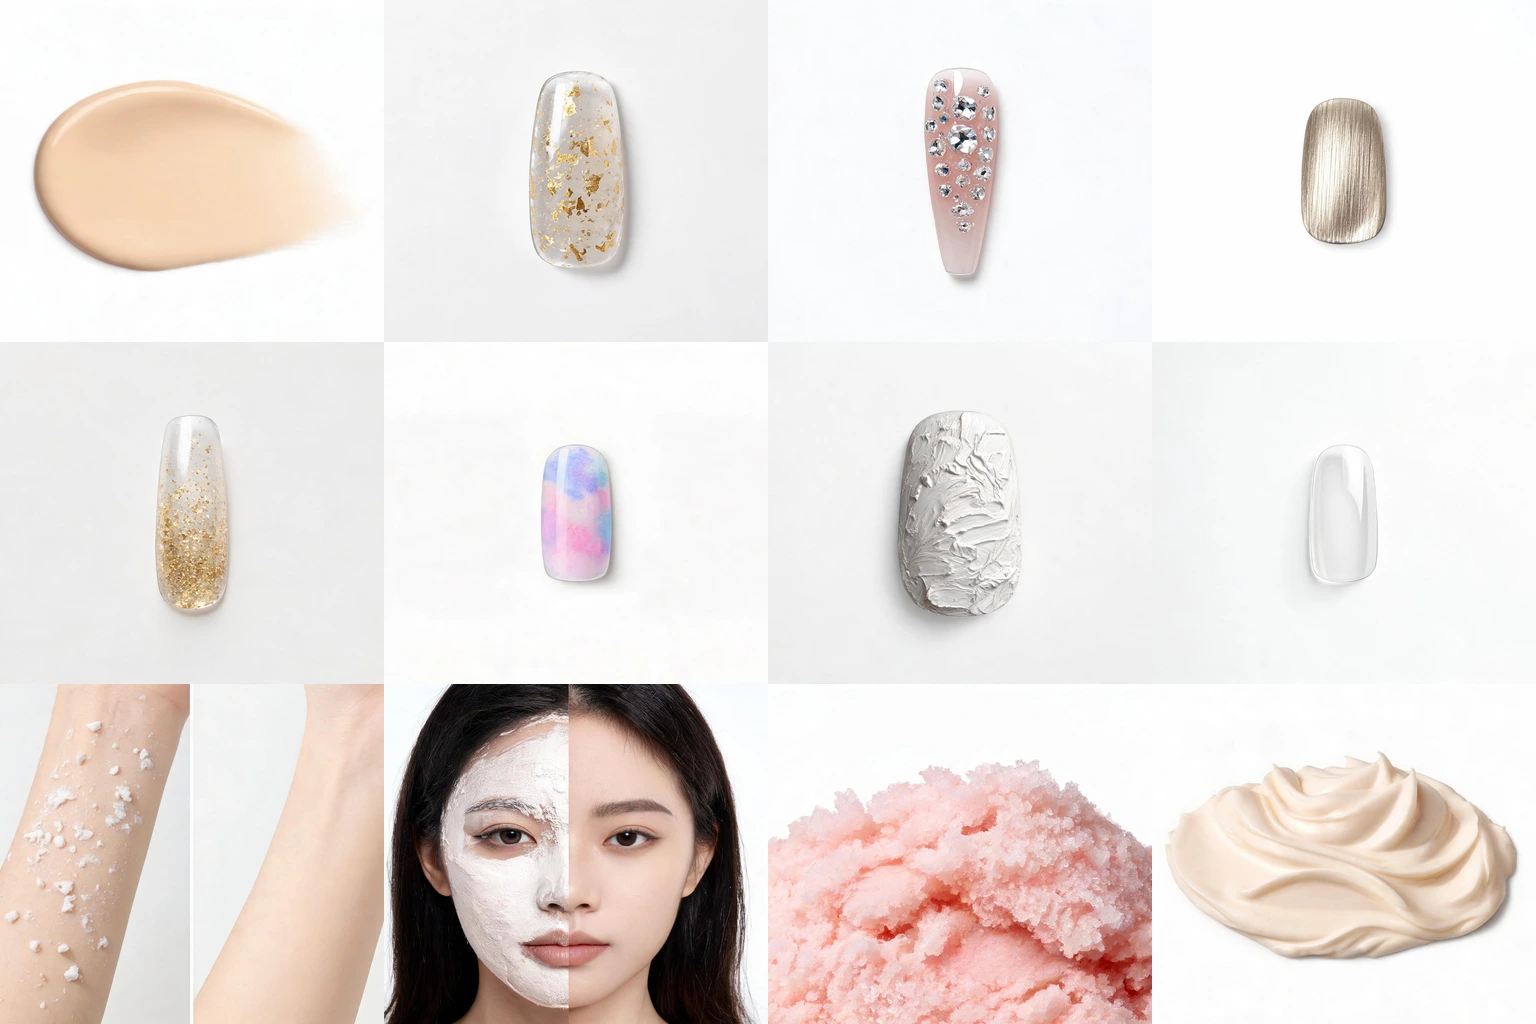
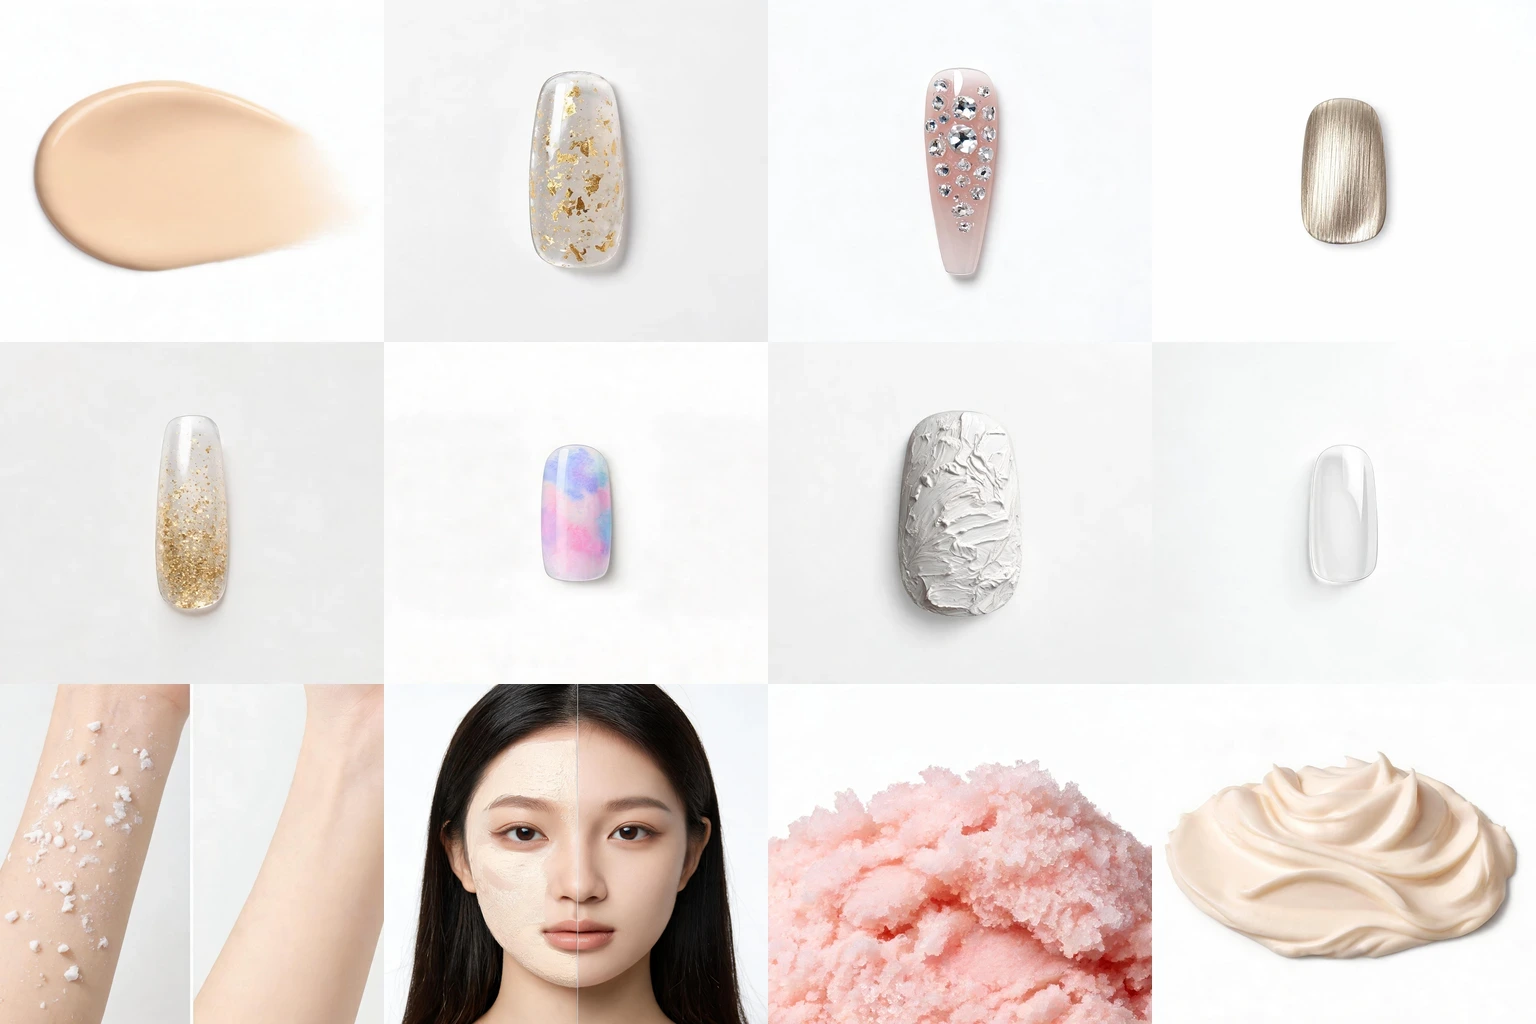
质地网格5格重制：提亮/不卡纹/凉感/不假面/服帖
- 提亮：假星光改为暗沉vs通透光泽同肤对比
- 不卡纹：眼下遮瑕卡纹vs服帖无纹分屏
- 凉感：皮肤假雪花改为冰蓝清凉凝露膏体
- 不假面：白面膜改为肤色厚重卡粉底妆vs自然薄透
- 服帖：手肘皮肤改为面中鼻翼旁底妆贴肤微距
- ASSET_VERSION 20261020d -> 20261020e，examples-data v1.34 -> v1.35
- 审计 31 passed / 0 failures

Changed region(s): [[0.25, 0.6562, 0.5, 1.0]]

diff --git a/beauty.html b/beauty.html
@@ -128,7 +128,7 @@
   <script src="./brand-products-data.js"></script>
   <script src="./brand-products-expansion.js?v=2.6"></script>
   <script src="./brand-product-images.js?v=2.6"></script>
-  <script src="./examples-data.js?v=1.34"></script>
+  <script src="./examples-data.js?v=1.35"></script>
   <script src="./sources-data.js?v=1.12"></script>
   <script src="./beauty.js?v=3.12"></script>
 </body>

diff --git a/recognize.html b/recognize.html
@@ -138,7 +138,7 @@
   </footer>
 
   <script src="./beauty-data.js?v=3.33"></script>
-  <script src="./examples-data.js?v=1.34"></script>
+  <script src="./examples-data.js?v=1.35"></script>
   <script src="./body-data.js?v=1.8.5"></script>
   <script src="./body-examples.js?v=1.8"></script>
   <script type="module" src="./recognize.js?v=2.0"></script>

diff --git a/index.html b/index.html
@@ -159,7 +159,7 @@
   </dialog>
 
   <script src="./data.js?v=5.6"></script>
-  <script src="./examples-data.js?v=1.34"></script>
+  <script src="./examples-data.js?v=1.35"></script>
   <script src="./sources-data.js?v=1.12"></script>
   <script src="./app.js?v=3.14"></script>
 </body>

diff --git a/examples-data.js b/examples-data.js
@@ -1,5 +1,5 @@
 (() => {
-  const ASSET_VERSION = '20261020d';
+  const ASSET_VERSION = '20261020e';
   const sheet = (file, col, row, alt) => ({
     file: `./assets/examples/${file}?v=${ASSET_VERSION}`,
     x: ['0%', '33.333%', '66.667%', '100%'][col],
